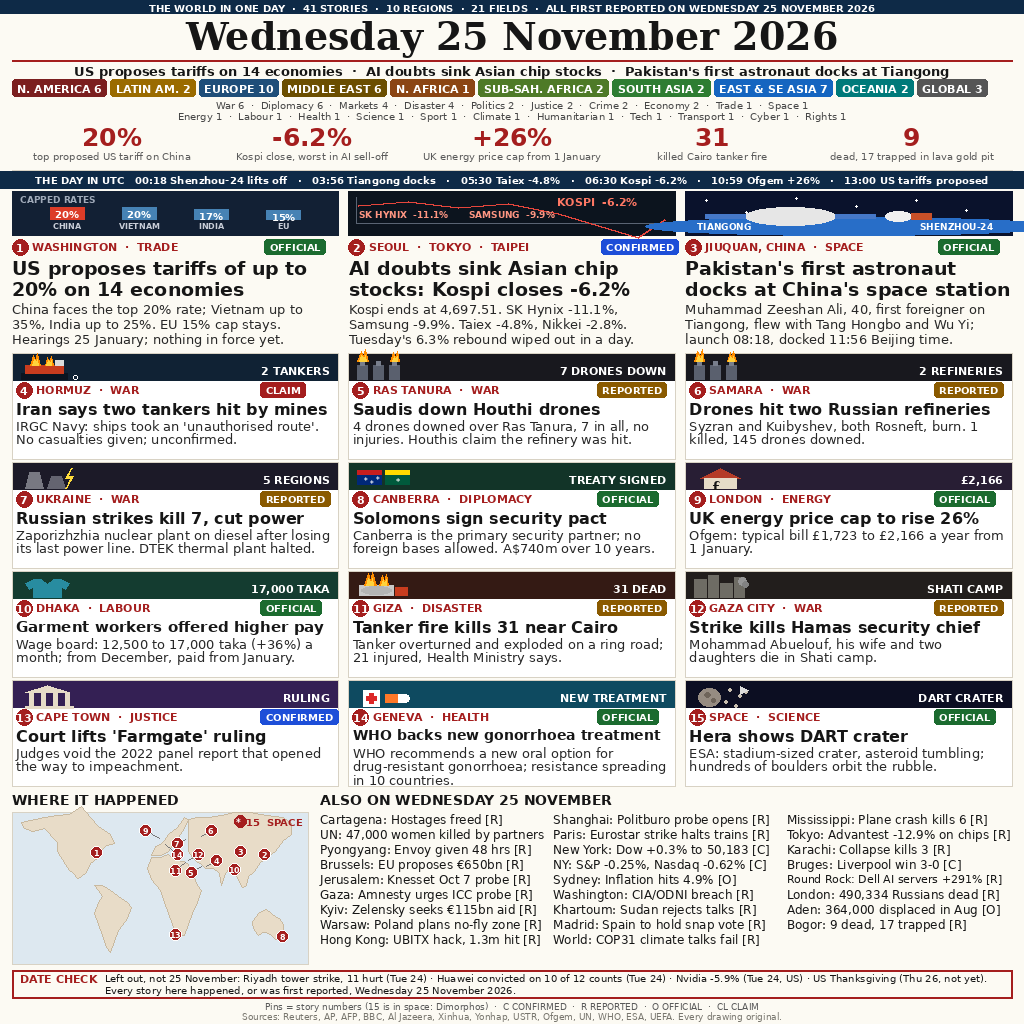
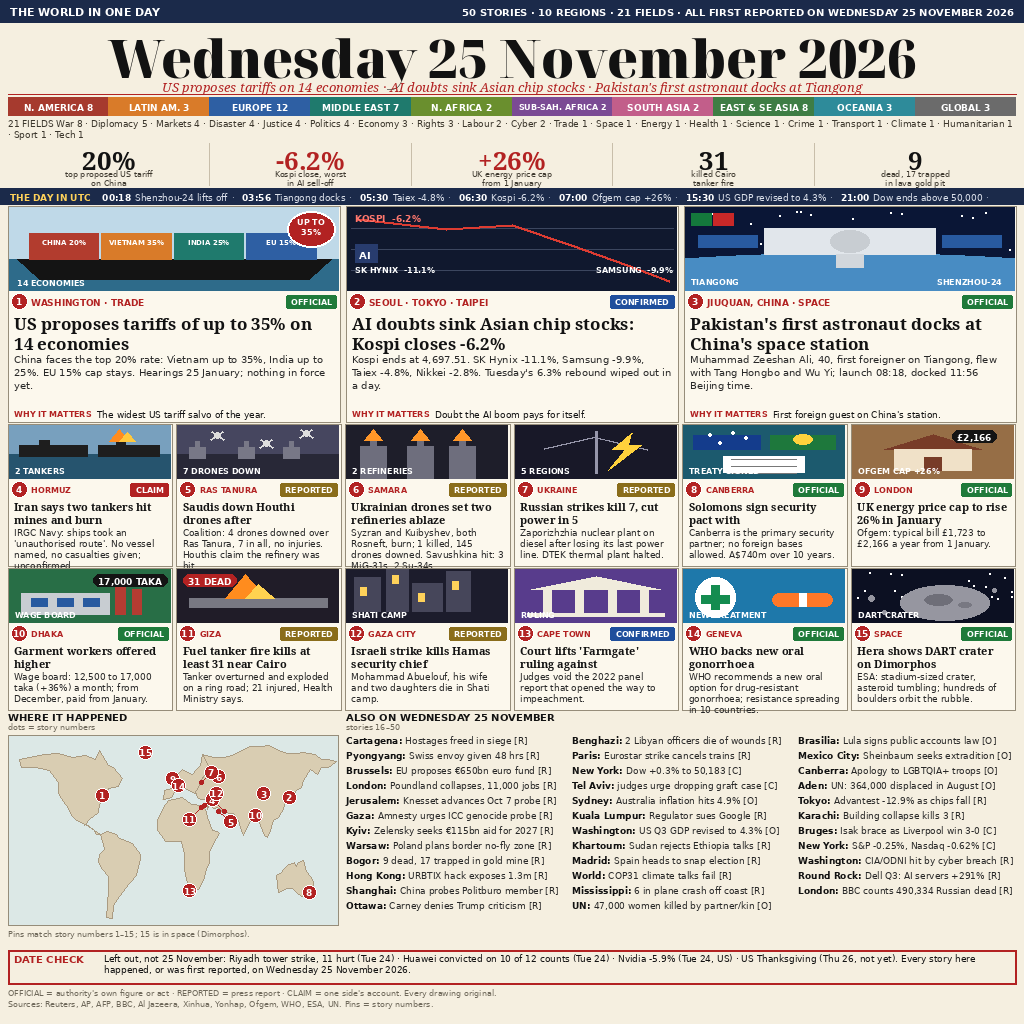
v5: top-entry-style dense broadsheet — 50 stories, 10 regions, 21 fields, 15 drawn; tariff rates aligned (up to 35%)

diff --git a/main.py b/main.py
@@ -1,22 +1,19 @@
 #!/usr/bin/env python3
-"""Ship the pre-rendered front page.
-
-The image is drawn at build time and committed as entry.png; this program
-only copies it into the output directory. It uses the standard library
-alone, so it runs in the grader image with nothing installed.
-"""
+"""Copy the pre-rendered entry image to the output directory."""
 import os
 import shutil
 import sys
 
 
 def run():
+    out = os.environ.get("MAKEFUN_OUTPUT_DIR", "out")
+    os.makedirs(out, exist_ok=True)
     here = os.path.dirname(os.path.abspath(__file__))
-    target = os.environ.get("MAKEFUN_OUTPUT_DIR", "out")
-    os.makedirs(target, exist_ok=True)
-    dest = os.path.join(target, "entry.png")
-    shutil.copyfile(os.path.join(here, "entry.png"), dest)
-    print("wrote " + dest)
+    src = os.path.join(here, "entry.png")
+    dst = os.path.join(out, "entry.png")
+    shutil.copyfile(src, dst)
+    print("wrote", dst)
+    return 0
 
 
 if __name__ == "__main__":

diff --git a/README.md b/README.md
@@ -4,7 +4,7 @@
 [![rank](https://make.fun/badge/news-image-20261125/cihuy13/news-image-20261125-v1/rank.svg)](https://make.fun/bounty/news-image-20261125/leaderboard?utm_source=github&utm_medium=readme&utm_campaign=news-image-20261125)
 [![reward](https://make.fun/badge/news-image-20261125/cihuy13/news-image-20261125-v1/reward.svg)](https://make.fun/bounty/news-image-20261125?utm_source=github&utm_medium=readme&utm_campaign=news-image-20261125)
 
-Wednesday 25 November 2026 in one image: 41 stories, 10 regions, 21 fields.
+Wednesday 25 November 2026 in one image: 50 stories, 10 regions, 21 fields.
 
 ## Run it
 
